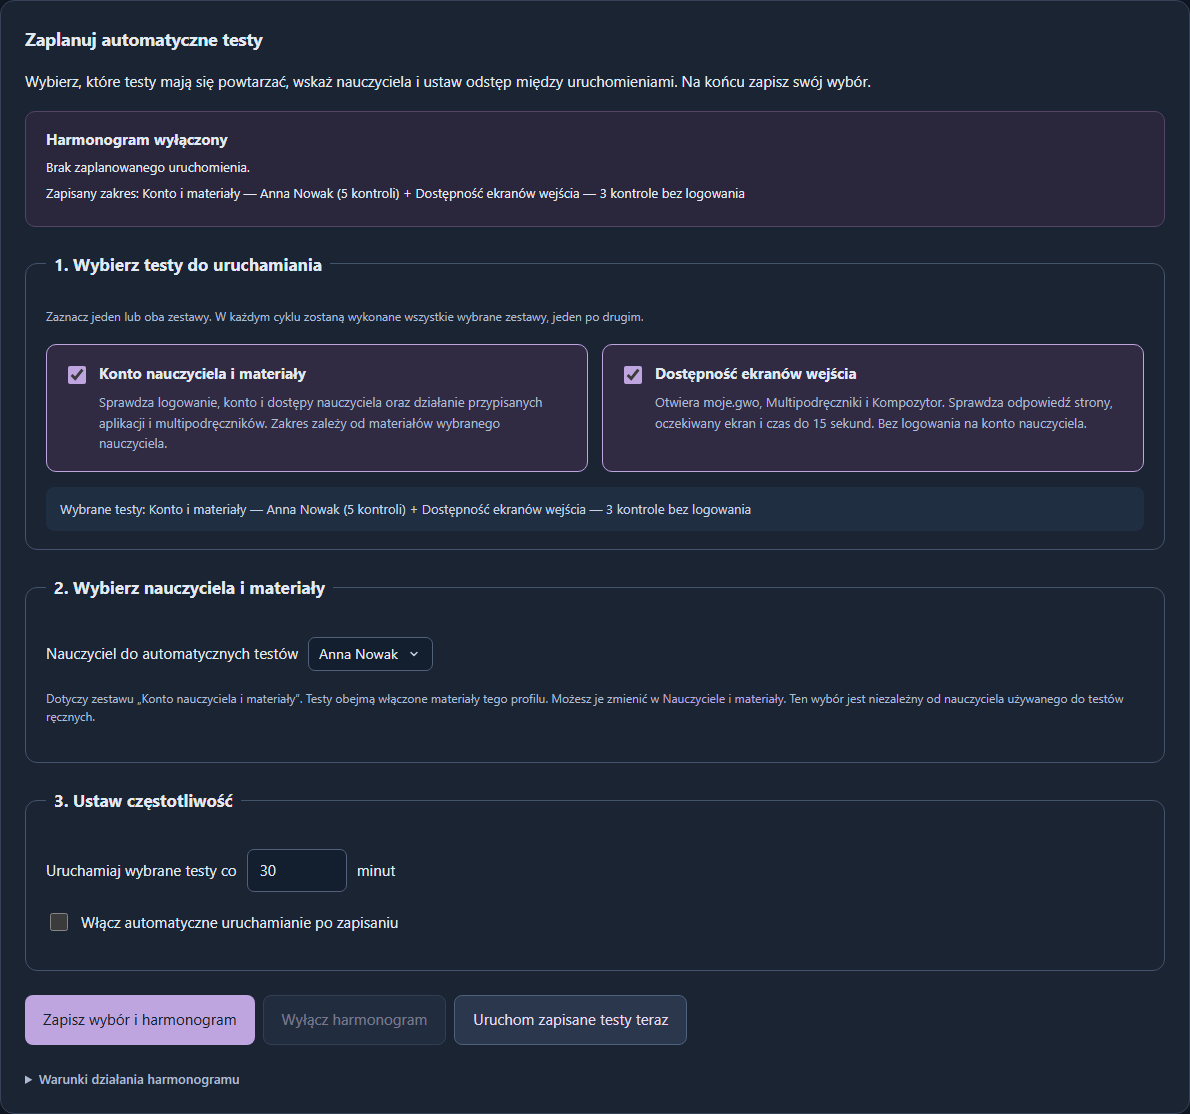
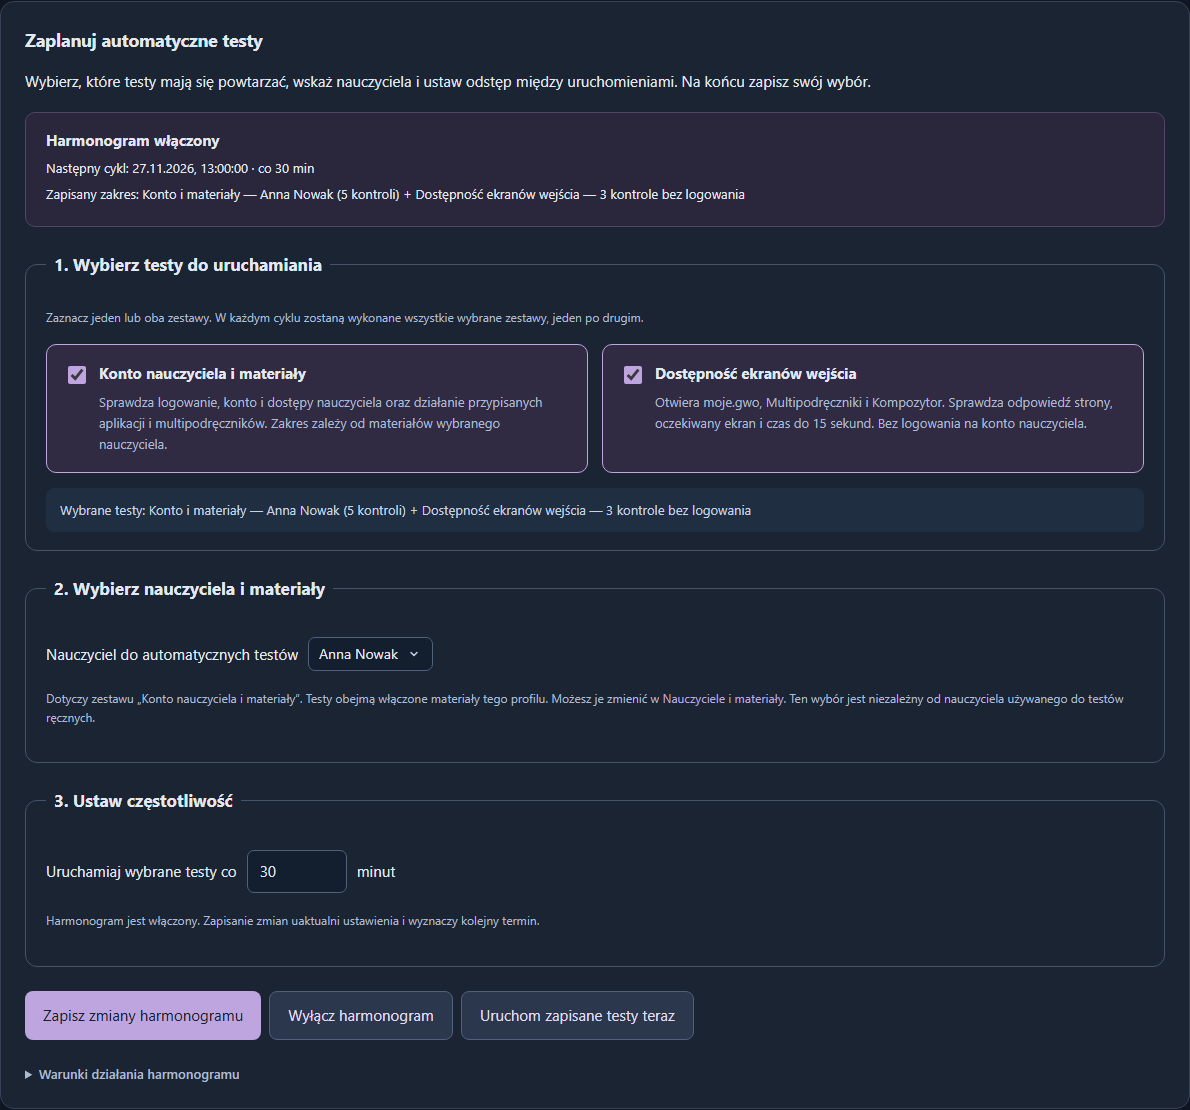
Replace schedule activation checkbox with explicit save and enable actions

diff --git a/dashboard/schedule.js b/dashboard/schedule.js
@@ -14,13 +14,16 @@
   const suites=['functional','websites'].filter(suite=>form.elements[suite].checked),note=$('#schedule-selection'),teacherStep=$('#schedule-teacher-step');
   if(note)note.textContent=suites.length?(dirty?'Do zapisania: ':'Wybrane testy: ')+scope(suites,form.elements.profileId.value):'Nie wybrano testów. Zaznacz co najmniej jeden zestaw.';
   if(teacherStep)teacherStep.hidden=!form.elements.functional.checked;
-  form.querySelector('[type=submit]').disabled=pending||!suites.length;
+  const submit=form.querySelector('[type=submit]');submit.disabled=pending||!suites.length;submit.textContent=saved.enabled?'Zapisz zmiany harmonogramu':'Zapisz i włącz harmonogram';
+  $('#schedule-save-only').hidden=saved.enabled;$('#schedule-save-only').disabled=pending||!suites.length;
+  $('#schedule-start-hint').textContent=saved.enabled?'Harmonogram jest włączony. Zapisanie zmian uaktualni ustawienia i wyznaczy kolejny termin.':'Włącz cykliczne testy przyciskiem „Zapisz i włącz harmonogram”. Pierwszy cykl wykona się po ustawionym odstępie. „Zapisz bez włączania” zachowa ustawienia na później.';
   $('#schedule-now').disabled=pending||saved.running||dirty||!suites.length;
  }
  form.addEventListener('input',()=>{dirty=true;renderSelection();});
- const options=()=>({enabled:form.elements.enabled.checked,intervalMinutes:Number(form.elements.intervalMinutes.value),suites:['functional','websites'].filter(s=>form.elements[s].checked),profileId:form.elements.profileId.value,revision:saved.revision});
- async function send(path,input){pending=true;try{const response=await fetch(path,{method:'POST',headers:{'Content-Type':'application/json','X-Health-Token':$('meta[name=health-token]').content},body:JSON.stringify(input)});const data=await response.json();if(!response.ok)throw new Error(data.error);saved=data.schedule;dirty=false;revision=-1;$('#schedule-message').textContent=path.endsWith('/run')?'Uruchomiono zapisane testy.':saved.enabled?'Zapisano wybór testów i włączono harmonogram.':'Zapisano ustawienia. Automatyczne uruchamianie jest wyłączone.';await window.refreshMojeGwo?.();}catch(e){$('#schedule-message').textContent=e.message;}finally{pending=false;}}
- form.onsubmit=e=>{e.preventDefault();void send('/api/schedule',options());};
+ const options=enabled=>({enabled,intervalMinutes:Number(form.elements.intervalMinutes.value),suites:['functional','websites'].filter(s=>form.elements[s].checked),profileId:form.elements.profileId.value,revision:saved.revision});
+ async function send(path,input){pending=true;renderSelection();$('#schedule-disable').disabled=true;try{const response=await fetch(path,{method:'POST',headers:{'Content-Type':'application/json','X-Health-Token':$('meta[name=health-token]').content},body:JSON.stringify(input)});const data=await response.json();if(!response.ok)throw new Error(data.error);saved=data.schedule;dirty=false;revision=-1;$('#schedule-message').textContent=path.endsWith('/run')?'Uruchomiono zapisane testy.':saved.enabled?'Zapisano wybór testów i włączono harmonogram.':'Zapisano ustawienia. Automatyczne uruchamianie jest wyłączone.';await window.refreshMojeGwo?.();}catch(e){$('#schedule-message').textContent=e.message;}finally{pending=false;renderSelection();$('#schedule-disable').disabled=!saved?.enabled;}}
+ form.onsubmit=e=>{e.preventDefault();void send('/api/schedule',options(true));};
+ $('#schedule-save-only').onclick=()=>{if(form.reportValidity())void send('/api/schedule',options(false));};
  $('#schedule-disable').onclick=()=>saved&&send('/api/schedule',{enabled:false,intervalMinutes:saved.intervalMinutes,suites:saved.suites,profileId:saved.profileId,revision:saved.revision});
  $('#schedule-now').onclick=()=>send('/api/schedule/run',{});
  const outcome=event=>event.type==='PASS'?'pass':['FAIL','ERROR'].includes(event.type)?'fail':event.type==='RUN'?'running':'neutral';
@@ -83,11 +86,12 @@
   if(!state.schedule)return;saved=state.schedule;profiles=state.profiles.teachers;const s=saved;
   $('#schedule-status').textContent=s.running?'Cykl w toku':s.enabled?'Harmonogram włączony':'Harmonogram wyłączony';
   $('#schedule-next').textContent=s.enabled?'Następny cykl: '+when(s.nextRunAt)+' · co '+s.intervalMinutes+' min':'Brak zaplanowanego uruchomienia.';
-  if(!dirty&&revision!==s.revision){revision=s.revision;form.elements.enabled.checked=s.enabled;form.elements.intervalMinutes.value=s.intervalMinutes;for(const suite of ['functional','websites'])form.elements[suite].checked=s.suites.includes(suite);const select=form.elements.profileId;select.replaceChildren(...state.profiles.teachers.filter(t=>t.enabled).map(t=>{const o=document.createElement('option');o.value=t.id;o.textContent=t.label;return o;}));select.value=s.profileId;}
+  if(!dirty&&revision!==s.revision){revision=s.revision;form.elements.intervalMinutes.value=s.intervalMinutes;for(const suite of ['functional','websites'])form.elements[suite].checked=s.suites.includes(suite);const select=form.elements.profileId;select.replaceChildren(...state.profiles.teachers.filter(t=>t.enabled).map(t=>{const o=document.createElement('option');o.value=t.id;o.textContent=t.label;return o;}));select.value=s.profileId;}
   const savedScope=$('#schedule-saved-scope');if(savedScope)savedScope.textContent='Zapisany zakres: '+scope(s.suites,s.profileId);
   renderSelection();
   $('#schedule-now').disabled=pending||s.running||state.running||state.busy||dirty;
   $('#schedule-disable').disabled=pending||!s.enabled;
+  $('#schedule-disable').hidden=!s.enabled;
   renderEvents();
  };
 })();

diff --git a/README.md b/README.md
@@ -119,7 +119,7 @@ W panelu **PROD → Harmonogram**:
 
 1. Zaznacz testy: **Konto nauczyciela i materiały**, **Dostępność ekranów wejścia** albo oba zestawy. Opisy przy wyborze wyjaśniają ich zakres.
 2. Dla testów konta wybierz nauczyciela. Panel pokaże jego zakres i liczbę kontroli. Same testy dostępności stron nie wymagają konta.
-3. Ustaw odstęp, zaznacz automatyczne uruchamianie i kliknij **Zapisz wybór i harmonogram**. Podsumowanie rozróżnia zapisany zakres i zmiany oczekujące na zapis.
+3. Ustaw odstęp i kliknij **Zapisz i włącz harmonogram**. Pierwszy cykl wykona się po wybranym odstępie. **Zapisz bez włączania** zachowuje ustawienia bez uruchamiania harmonogramu. Przy aktywnym harmonogramie użyj **Zapisz zmiany harmonogramu**.
 
 Komputer i panel muszą działać; samą kartę przeglądarki można zamknąć. Wybrane zestawy wykonują się kolejno, a zajęty termin jest pomijany. Harmonogram można wyłączyć w tym samym widoku. Testy obciążeniowe nie są uruchamiane z harmonogramu.
 

diff --git a/docs/INSTRUKCJA_KONFIGURACJI.md b/docs/INSTRUKCJA_KONFIGURACJI.md
@@ -349,7 +349,7 @@ Harmonogram jest dostępny w **PROD → Harmonogram**.
 1. Zaznacz **Konto nauczyciela i materiały**, **Dostępność ekranów wejścia** albo oba zestawy.
 2. Dla zestawu konta wybierz nauczyciela. Będą używane jego aktualne, włączone materiały. Wybór harmonogramu jest niezależny od ręcznego wyboru nauczyciela.
 3. Ustaw odstęp od 1 do 10080 minut.
-4. Zaznacz automatyczne uruchamianie i kliknij **Zapisz wybór i harmonogram**.
+4. Kliknij **Zapisz i włącz harmonogram** — dodatkowy checkbox nie jest potrzebny. Pierwszy cykl wykona się po wybranym odstępie. Jeśli chcesz tylko przygotować ustawienia, wybierz **Zapisz bez włączania**. Przy aktywnym harmonogramie główny przycisk ma nazwę **Zapisz zmiany harmonogramu**.
 5. Sprawdź **Zapisany zakres** i datę następnego cyklu. **Do zapisania** oznacza zmiany, które jeszcze nie obowiązują.
 
 ![Wybór testów i nauczyciela do harmonogramu](images/harmonogram-wybor-testow.png)
